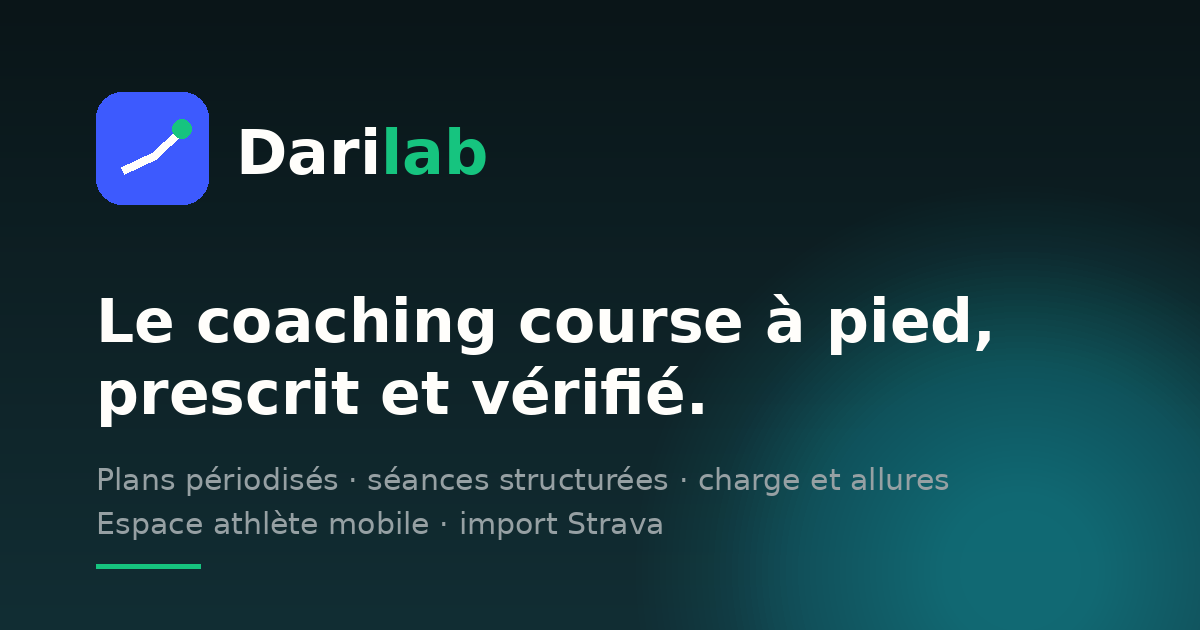
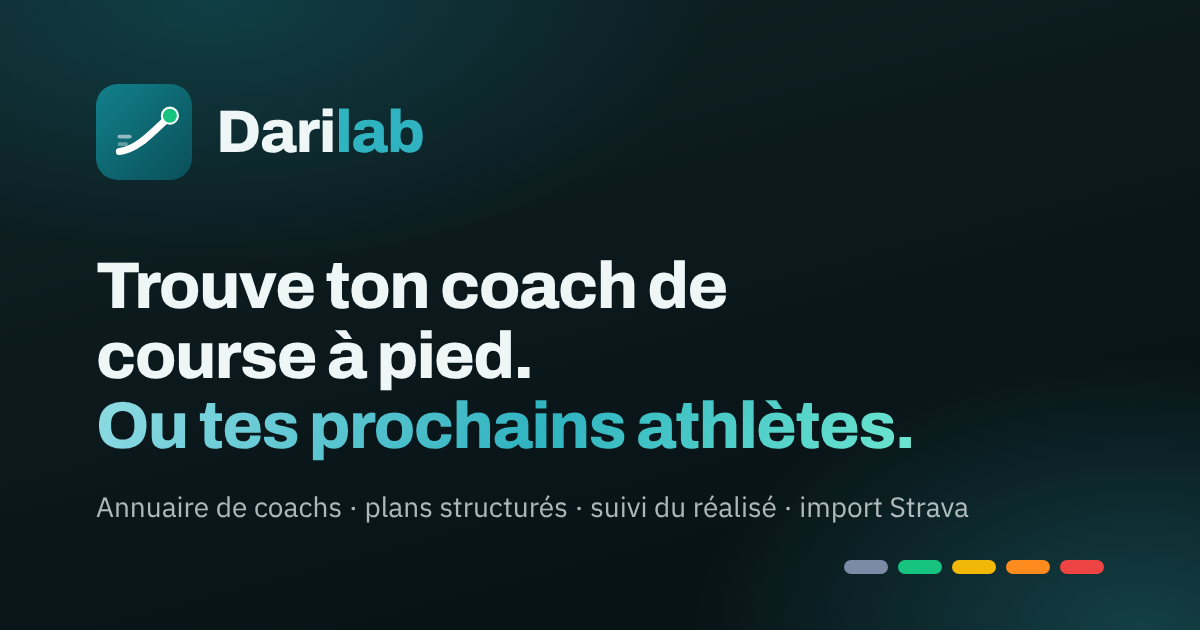
feat(vitrine): accueil à deux publics, « Comment ça marche », FAQ et image de partage
L'accueil parle à l'athlète qui cherche un coach comme au coach : deux
colonnes de trois étapes, puis une FAQ dont chaque réponse suit le produit
(validation des fiches, 14 jours, 5 demandes, 16 ans, consentement santé).
Ancres activées dans le routeur. La page débordait sur mobile (barre du haut
et grille des fonctionnalités) ; le pied de page se tassait au centre.
Nouvelle image de partage aux couleurs actuelles, générée depuis
branding/og-image.html avec les vraies polices.

Claude-Session: https://claude.ai/code/session_01JpCkJ398v8MLpXZBnPbkvF

diff --git a/front/src/app/features/home/home.component.html b/front/src/app/features/home/home.component.html
@@ -6,8 +6,8 @@
       @if (isAuthenticated()) {
         <a [routerLink]="home()" class="btn btn-primary btn-sm">Mon espace</a>
       } @else {
-        <a routerLink="/coachs" class="btn btn-ghost btn-sm">Trouver un coach</a>
-        <a routerLink="/inscription-athlete" class="btn btn-ghost btn-sm">Je suis athlète</a>
+        <a routerLink="/coachs" class="btn btn-ghost btn-sm top-optional-sm">Trouver un coach</a>
+        <a routerLink="/" fragment="comment-ca-marche" class="btn btn-ghost btn-sm top-optional">Comment ça marche</a>
         <a routerLink="/login" class="btn btn-ghost btn-sm">Connexion</a>
         <a routerLink="/register" class="btn btn-primary btn-sm">Créer mon espace</a>
       }
@@ -19,8 +19,8 @@
       <span class="badge badge-info">Coaching course à pied</span>
       <h1 class="display-lg">Entraîne. Suis.<br /><span class="grad">Progresse.</span></h1>
       <p class="lead">
-        La plateforme moderne et mobile-first pour prescrire l'entraînement, suivre le réalisé
-        et piloter la charge de tes athlètes — alternative simple et abordable à Nolio.
+        Trouve le coach qui te correspond, ou rejoins la plateforme pour accompagner tes
+        athlètes : plans, suivi du réalisé et de la charge, sur ton téléphone.
       </p>
       <div class="cta">
         @if (isAuthenticated()) {
@@ -43,7 +43,76 @@
     </div>
   </section>
 
-  <section class="features container-wide">
+  <!-- Deux publics, deux portes : l'athlète qui cherche un coach, le coach qui cherche des
+       athlètes et un outil. Chacun doit trouver sa colonne sans lire celle de l'autre. -->
+  <section class="how container-wide" id="comment-ca-marche" aria-labelledby="how-title">
+    <h2 id="how-title" class="display-sm how-title">Comment ça marche</h2>
+    <div class="how-cols">
+      <article class="card how-col">
+        <span class="badge badge-info">Tu es athlète</span>
+        <ol class="how-steps">
+          <li>
+            <span class="how-ic"><app-icon name="search" [size]="20" /></span>
+            <div>
+              <strong>Trouve ton coach</strong>
+              <p class="field-hint">Parcours l'annuaire par spécialité, ville ou tarif. Chaque fiche
+                montre le parcours du coach, ses formules et ses prix.</p>
+            </div>
+          </li>
+          <li>
+            <span class="how-ic"><app-icon name="message-square" [size]="20" /></span>
+            <div>
+              <strong>Envoie ta demande</strong>
+              <p class="field-hint">Quelques lignes sur ton objectif. Le coach accepte, refuse ou
+                te pose une question ; rien n'est engagé tant qu'il n'a pas répondu.</p>
+            </div>
+          </li>
+          <li>
+            <span class="how-ic"><app-icon name="calendar" [size]="20" /></span>
+            <div>
+              <strong>Entraîne-toi</strong>
+              <p class="field-hint">Ta séance du jour sur ton téléphone, tes sorties Strava
+                rapprochées du plan, ton ressenti en un geste.</p>
+            </div>
+          </li>
+        </ol>
+        <a routerLink="/coachs" class="btn btn-primary">Trouver un coach</a>
+      </article>
+
+      <article class="card how-col">
+        <span class="badge badge-neutral">Tu es coach</span>
+        <ol class="how-steps">
+          <li>
+            <span class="how-ic"><app-icon name="rocket" [size]="20" /></span>
+            <div>
+              <strong>Crée ton espace</strong>
+              <p class="field-hint">Seul ou en club. Invite les athlètes que tu suis déjà : ils
+                gardent leurs habitudes, tu gagnes un outil.</p>
+            </div>
+          </li>
+          <li>
+            <span class="how-ic"><app-icon name="shield-check" [size]="20" /></span>
+            <div>
+              <strong>Publie ta fiche</strong>
+              <p class="field-hint">Présentation, spécialités, formules. L'équipe la relit avant
+                qu'elle apparaisse dans l'annuaire.</p>
+            </div>
+          </li>
+          <li>
+            <span class="how-ic"><app-icon name="inbox" [size]="20" /></span>
+            <div>
+              <strong>Reçois des demandes</strong>
+              <p class="field-hint">Tu lis le message, tu poses une question si besoin, tu
+                acceptes : l'athlète arrive dans ton espace, prêt à être planifié.</p>
+            </div>
+          </li>
+        </ol>
+        <a routerLink="/register" class="btn btn-secondary">Créer mon espace coach</a>
+      </article>
+    </div>
+  </section>
+
+  <section class="features container-wide" aria-label="L'outil du coach">
     <article class="card card-interactive feature">
       <span class="feature-ic"><app-icon name="calendar" [size]="22" /></span>
       <h3>Calendrier & séances</h3>
@@ -61,11 +130,66 @@
     </article>
   </section>
 
+  <!-- Les réponses suivent le produit tel qu'il est : chaque phrase ici a son équivalent dans le
+       code (validation des fiches, 14 jours, 5 demandes, 16 ans, consentement santé). Une FAQ
+       qui promet plus que l'outil ne fait est pire que pas de FAQ. -->
+  <section class="faq container-narrow" id="faq" aria-labelledby="faq-title">
+    <h2 id="faq-title" class="display-sm">Questions fréquentes</h2>
+
+    <details class="faq-item">
+      <summary>Combien ça coûte ?</summary>
+      <p>Créer un compte, athlète comme coach, est gratuit. Le coaching lui-même se règle
+        directement avec ton coach, au tarif affiché sur sa fiche : aucun paiement ne passe par
+        la plateforme.</p>
+    </details>
+    <details class="faq-item">
+      <summary>Les coachs sont-ils vérifiés ?</summary>
+      <p>Chaque fiche est relue par l'équipe avant d'apparaître dans l'annuaire. Les diplômes, en
+        revanche, sont déclarés par les coachs et ne sont pas vérifiés auprès des organismes : la
+        fiche l'indique. Si quelque chose te paraît inexact, chaque fiche permet de la signaler.</p>
+    </details>
+    <details class="faq-item">
+      <summary>Que se passe-t-il après ma demande ?</summary>
+      <p>Le coach la reçoit et y répond : il accepte, refuse en te disant pourquoi, ou te pose une
+        question. Sans réponse sous 14 jours, la demande expire ; ce n'est pas un refus, tu peux le
+        solliciter de nouveau. Tu peux avoir jusqu'à 5 demandes en attente à la fois.</p>
+    </details>
+    <details class="faq-item">
+      <summary>Faut-il un compte pour contacter un coach ?</summary>
+      <p>Oui, mais tu le crées en écrivant ta demande, dans le même formulaire. Elle part dès que tu
+        as confirmé ton adresse e-mail : le coach doit pouvoir te répondre.</p>
+    </details>
+    <details class="faq-item">
+      <summary>Qui voit mes données ?</summary>
+      <p>Ton e-mail et ton téléphone ne sont jamais publiés, ni ceux des coachs. Avant d'accepter,
+        un coach voit ton nom, ton âge, ta ville, ton niveau et ton objectif. Tes données de santé
+        (ressenti, douleurs, fatigue) ne sont partagées qu'avec le coach que tu choisis, et
+        seulement si tu y consens.</p>
+    </details>
+    <details class="faq-item">
+      <summary>Et si je veux changer de coach ?</summary>
+      <p>Tu peux mettre fin au coaching à tout moment depuis « Mes demandes ». Ton coach n'a alors
+        plus accès à ton suivi ; ton historique reste chez lui, et tu peux en chercher un autre.</p>
+    </details>
+    <details class="faq-item">
+      <summary>Y a-t-il un âge minimum ?</summary>
+      <p>L'inscription directe est ouverte à partir de 16 ans. En dessous, c'est le club ou le
+        coach qui crée l'accès de l'athlète.</p>
+    </details>
+    <details class="faq-item">
+      <summary>Je suis coach : comment apparaître dans l'annuaire ?</summary>
+      <p>Crée ton espace, puis remplis « Ma fiche publique » : présentation, spécialités, au moins
+        une formule. Tu la soumets, l'équipe la relit, et elle est publiée. Tu peux ensuite fermer
+        ta fiche aux nouvelles demandes quand tu es complet.</p>
+    </details>
+  </section>
+
   <!-- Pas d'état de l'API ici : un prospect n'a pas à savoir qu'une API existe, et
        « API injoignable » sur la page d'accueil tue la crédibilité. La sonde vit sous /dev/api. -->
   <footer class="landing-foot container-wide">
     <span class="muted">© Darilab</span>
     <nav class="landing-foot-links">
+      <a routerLink="/" fragment="faq">FAQ</a>
       <a routerLink="/support">Support</a>
       <a routerLink="/legal/confidentialite">Confidentialité</a>
       <a routerLink="/legal/mentions-legales">Mentions légales</a>

diff --git a/front/branding/og-image.html b/front/branding/og-image.html
@@ -1,0 +1,53 @@
+<!doctype html>
+<!--
+  Image de partage (Open Graph), 1200×630. Source de src/assets/og-image.png :
+  node branding/generate-og-image.mjs
+  Mêmes couleurs, polices et logo que l'application (styles.scss, icon-master.svg).
+-->
+<html lang="fr">
+<head>
+<meta charset="utf-8">
+<style>
+  @font-face { font-family: 'Archivo'; src: url('../src/assets/fonts/archivo-latin.woff2') format('woff2'); font-weight: 100 900; }
+  @font-face { font-family: 'IBM Plex Sans'; src: url('../src/assets/fonts/ibm-plex-sans-latin.woff2') format('woff2'); font-weight: 100 700; }
+  html, body { margin: 0; }
+  body {
+    width: 1200px; height: 630px; box-sizing: border-box; overflow: hidden; position: relative;
+    padding: 84px 96px;
+    background:
+      radial-gradient(70% 70% at 18% 0%, rgba(18, 133, 145, 0.30) 0%, transparent 60%),
+      radial-gradient(60% 70% at 95% 100%, rgba(47, 179, 192, 0.28) 0%, transparent 62%),
+      linear-gradient(165deg, #0f2125 0%, #081316 78%);
+    color: #eef6f6; font-family: 'IBM Plex Sans', sans-serif;
+  }
+  .brand { display: flex; align-items: center; gap: 24px; }
+  .brand svg { width: 96px; height: 96px; }
+  .word { font-family: 'Archivo', sans-serif; font-weight: 800; font-size: 60px; letter-spacing: -0.02em; }
+  .word span { color: #2fb3c0; }
+  h1 { font-family: 'Archivo', sans-serif; font-weight: 800; font-size: 66px; line-height: 1.06; letter-spacing: -0.025em; margin: 72px 0 26px; max-width: 980px; }
+  h1 em { font-style: normal; background: linear-gradient(120deg, #8fdbe3 0%, #2fb3c0 55%, #6ee7d0 100%); -webkit-background-clip: text; background-clip: text; color: transparent; }
+  p { margin: 0; font-size: 28px; color: rgba(238, 246, 246, 0.72); }
+  .zones { position: absolute; right: 96px; bottom: 56px; display: flex; gap: 10px; }
+  .zones i { display: block; width: 44px; height: 14px; border-radius: 7px; }
+</style>
+</head>
+<body>
+  <div class="brand">
+    <svg viewBox="0 0 1024 1024" fill="none" xmlns="http://www.w3.org/2000/svg">
+      <defs><linearGradient id="bg" x1="0" y1="0" x2="1024" y2="1024" gradientUnits="userSpaceOnUse"><stop offset="0" stop-color="#12808B"/><stop offset="1" stop-color="#0A4F58"/></linearGradient></defs>
+      <rect width="1024" height="1024" rx="232" fill="url(#bg)"/>
+      <path d="M250 720 C 420 700, 540 580, 770 360" stroke="#FFFFFF" stroke-width="76" stroke-linecap="round" fill="none"/>
+      <path d="M250 560 L 360 560" stroke="#FFFFFF" stroke-width="40" stroke-linecap="round" opacity="0.55"/>
+      <path d="M250 640 L 320 640" stroke="#FFFFFF" stroke-width="40" stroke-linecap="round" opacity="0.35"/>
+      <circle cx="788" cy="338" r="86" fill="#16C47F"/>
+      <circle cx="788" cy="338" r="86" stroke="#FFFFFF" stroke-width="22" fill="none"/>
+    </svg>
+    <span class="word">Dari<span>lab</span></span>
+  </div>
+  <h1>Trouve ton coach de course&nbsp;à&nbsp;pied.<br><em>Ou tes prochains athlètes.</em></h1>
+  <p>Annuaire de coachs · plans structurés · suivi du réalisé · import Strava</p>
+  <div class="zones">
+    <i style="background:#7c8aa5"></i><i style="background:#16c47f"></i><i style="background:#f2b807"></i><i style="background:#ff8a1e"></i><i style="background:#ef4444"></i>
+  </div>
+</body>
+</html>

diff --git a/front/src/app/features/home/home.component.scss b/front/src/app/features/home/home.component.scss
@@ -17,7 +17,8 @@
   font-size: var(--text-xl);
   color: var(--primary);
 }
-.top-actions { display: flex; gap: var(--sp-2); }
+.top-actions { display: flex; gap: var(--sp-2); flex-wrap: wrap; justify-content: flex-end; }
+.topbar { gap: var(--sp-3); }
 
 /* Hero sombre « night track » + aurora mesh */
 .hero {
@@ -73,17 +74,45 @@
 /* Features */
 .features {
   display: grid;
-  grid-template-columns: repeat(auto-fit, minmax(240px, 1fr));
+  grid-template-columns: repeat(auto-fit, minmax(min(240px, 100%), 1fr));
   gap: var(--sp-4);
   padding-block: var(--sp-12);
+  width: 100%;
+  box-sizing: border-box;
 }
 .feature { display: flex; flex-direction: column; gap: var(--sp-2); }
 .feature-ic { font-size: 28px; }
 .feature h3 { margin: 0; }
 
+/* Comment ça marche */
+.how { width: 100%; box-sizing: border-box; padding-block: var(--sp-12) 0; scroll-margin-top: var(--sp-4); }
+.how-title { text-align: center; margin: 0 0 var(--sp-6); }
+.how-cols { display: grid; grid-template-columns: repeat(auto-fit, minmax(min(300px, 100%), 1fr)); gap: var(--sp-4); }
+.how-col { display: flex; flex-direction: column; gap: var(--sp-4); align-items: flex-start; }
+.how-col .btn { margin-top: auto; }
+.how-steps { list-style: none; margin: 0; padding: 0; display: flex; flex-direction: column; gap: var(--sp-4); }
+.how-steps li { display: flex; gap: var(--sp-3); align-items: flex-start; }
+.how-steps strong { display: block; color: var(--ink); }
+.how-steps p { margin: var(--sp-1) 0 0; }
+.how-ic { flex: 0 0 auto; width: 36px; height: 36px; border-radius: var(--radius-md); background: var(--primary-wash); color: var(--primary); display: inline-flex; align-items: center; justify-content: center; }
+
+/* FAQ */
+.faq { padding-block: 0 var(--sp-12); scroll-margin-top: var(--sp-4); width: 100%; }
+.faq h2 { text-align: center; margin: 0 0 var(--sp-5); }
+.faq-item { border-bottom: 1px solid var(--hairline); }
+.faq-item summary { cursor: pointer; padding: var(--sp-4) 0; font-weight: 600; color: var(--ink); list-style: none; display: flex; justify-content: space-between; gap: var(--sp-3); }
+.faq-item summary::-webkit-details-marker { display: none; }
+.faq-item summary::after { content: '+'; color: var(--ink-3); font-weight: 400; }
+.faq-item[open] summary::after { content: '−'; }
+.faq-item p { margin: 0 0 var(--sp-4); color: var(--ink-2); line-height: 1.6; }
+
 /* Footer / statut API */
 .landing-foot {
   margin-top: auto;
+  /* Élément d'une colonne flex : sans largeur explicite, `margin-inline: auto` le réduisait
+     à son contenu et le pied de page se tassait au centre. */
+  width: 100%;
+  box-sizing: border-box;
   display: flex;
   align-items: center;
   justify-content: space-between;
@@ -108,5 +137,12 @@
 .muted { color: var(--ink-4); }
 
 @media (max-width: 768px) {
+  .top-optional { display: none; }
   .hero { padding: var(--sp-12) var(--sp-4); margin-inline: var(--sp-2); }
+}
+
+/* Sur un téléphone, « Trouver un coach » est déjà le second bouton du bandeau : le doublon en
+   haut faisait déborder la barre, et toute la page avec elle. */
+@media (max-width: 480px) {
+  .top-optional-sm { display: none; }
 }

diff --git a/front/src/index.html b/front/src/index.html
@@ -20,15 +20,15 @@
   <meta property="og:locale" content="fr_FR">
   <meta property="og:url" content="https://www.darilab.app/">
   <meta property="og:title" content="Darilab — Le coaching course à pied, prescrit et vérifié">
-  <meta property="og:description" content="Plans périodisés, séances structurées, pilotage de la charge et espace athlète mobile. La seule plateforme qui compare le réalisé à ce qui était prescrit.">
+  <meta property="og:description" content="Trouve ton coach de course à pied dans l'annuaire, ou accompagne tes athlètes : plans structurés, suivi du réalisé et de la charge, espace athlète mobile.">
   <meta property="og:image" content="https://www.darilab.app/assets/og-image.png">
   <meta property="og:image:width" content="1200">
   <meta property="og:image:height" content="630">
-  <meta property="og:image:alt" content="Darilab — plateforme de coaching course à pied">
+  <meta property="og:image:alt" content="Darilab — trouve ton coach de course à pied, ou tes prochains athlètes">
 
   <meta name="twitter:card" content="summary_large_image">
   <meta name="twitter:title" content="Darilab — Le coaching course à pied, prescrit et vérifié">
-  <meta name="twitter:description" content="Plans périodisés, séances structurées, pilotage de la charge et espace athlète mobile.">
+  <meta name="twitter:description" content="Trouve ton coach de course à pied dans l'annuaire, ou accompagne tes athlètes.">
   <meta name="twitter:image" content="https://www.darilab.app/assets/og-image.png">
 
   <!-- Favicons -->

diff --git a/front/src/app/app.config.ts b/front/src/app/app.config.ts
@@ -5,7 +5,9 @@ import { PLATFORM_ID, ApplicationConfig, ErrorHandler, LOCALE_ID, importProvider
 import * as Sentry from '@sentry/angular';
 import { provideAnimationsAsync } from '@angular/platform-browser/animations/async';
 import { environment } from '../environments/environment';
-import { provideRouter, withComponentInputBinding, withRouterConfig } from '@angular/router';
+import {
+  provideRouter, withComponentInputBinding, withInMemoryScrolling, withRouterConfig,
+} from '@angular/router';
 import { provideAthleteContextReuse } from './core/routing/athlete-context-reuse.strategy';
 import { provideServiceWorker } from '@angular/service-worker';
 import {
@@ -84,6 +86,9 @@ export const appConfig: ApplicationConfig = {
       routes,
       withComponentInputBinding(),
       withRouterConfig({ paramsInheritanceStrategy: 'always' }),
+      // Pour les ancres de l'accueil (« Comment ça marche », « FAQ ») : sans cette option, un
+      // lien avec fragment change l'adresse sans faire défiler. Inerte sur les routes sans ancre.
+      withInMemoryScrolling({ anchorScrolling: 'enabled' }),
     ),
     // ... et comme elles n'ont que cet héritage pour savoir de qui elles parlent, elles sont
     // recréées quand il change : sans cela, changer d'athlète depuis le bandeau renommait
